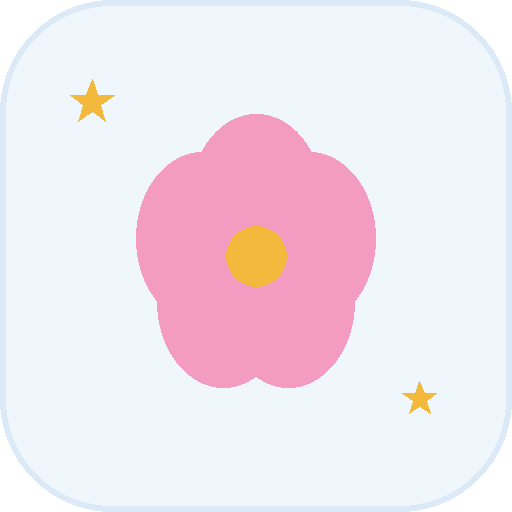
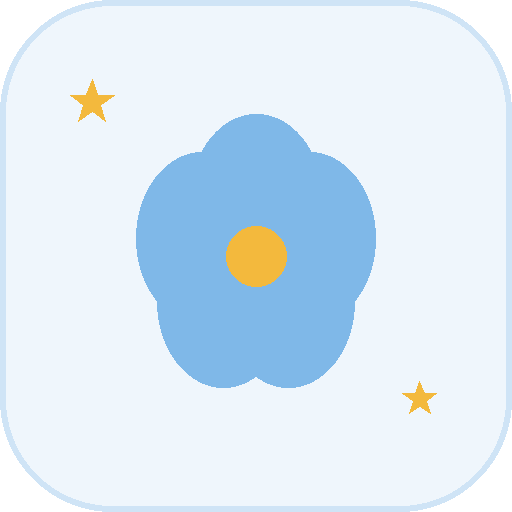
Add files via upload

Changed region(s): [[0.25, 0.2188, 0.75, 0.7812]]

diff --git a/style.css b/style.css
@@ -7,11 +7,11 @@
   --ink: #33415C;
   --ink-dim: #7288A3;
   --ink-faint: #A9BBD0;
-  --live: #FF8FAB;
-  --live-soft: rgba(255, 143, 171, 0.22);
-  --live-strong: #F2749A;
+  --live: #4F9BDE;
+  --live-soft: rgba(79, 155, 222, 0.20);
+  --live-strong: #2F6FB0;
   --gold: #F3B93D;
-  --ribbon: #F49BC1;
+  --ribbon: #6FB3E0;
 
   --hour-h: 64px;
   --font-display: "Baloo 2", "Quicksand", system-ui, sans-serif;
@@ -183,9 +183,9 @@ button, input, select {
 }
 
 @keyframes pulse {
-  0%   { box-shadow: 0 0 0 0 rgba(255,143,171,0.55); }
-  70%  { box-shadow: 0 0 0 10px rgba(255,143,171,0); }
-  100% { box-shadow: 0 0 0 0 rgba(255,143,171,0); }
+  0%   { box-shadow: 0 0 0 0 rgba(79,155,222,0.55); }
+  70%  { box-shadow: 0 0 0 10px rgba(79,155,222,0); }
+  100% { box-shadow: 0 0 0 0 rgba(79,155,222,0); }
 }
 
 .status-text { display: flex; flex-direction: column; gap: 2px; min-width: 0; }

diff --git a/index.html b/index.html
@@ -29,7 +29,7 @@
 <header class="hero">
   <div class="hero-stars" aria-hidden="true">✦ ✧ ✦</div>
   <h1 class="hero-title">Thời Khoá Biểu</h1>
-  <div class="ribbon-divider" aria-hidden="true">❀ 🎀 ❀</div>
+  <div class="ribbon-divider" aria-hidden="true">✦ ❆ ✦</div>
   <p class="hero-caption">Cố lên nào — đừng để deadline đánh bại bạn! 🐾</p>
 </header>
 

diff --git a/sw.js b/sw.js
@@ -1,4 +1,4 @@
-const CACHE = "tkb-cache-v4";
+const CACHE = "tkb-cache-v5";
 const ASSETS = [
   "./",
   "./index.html",
